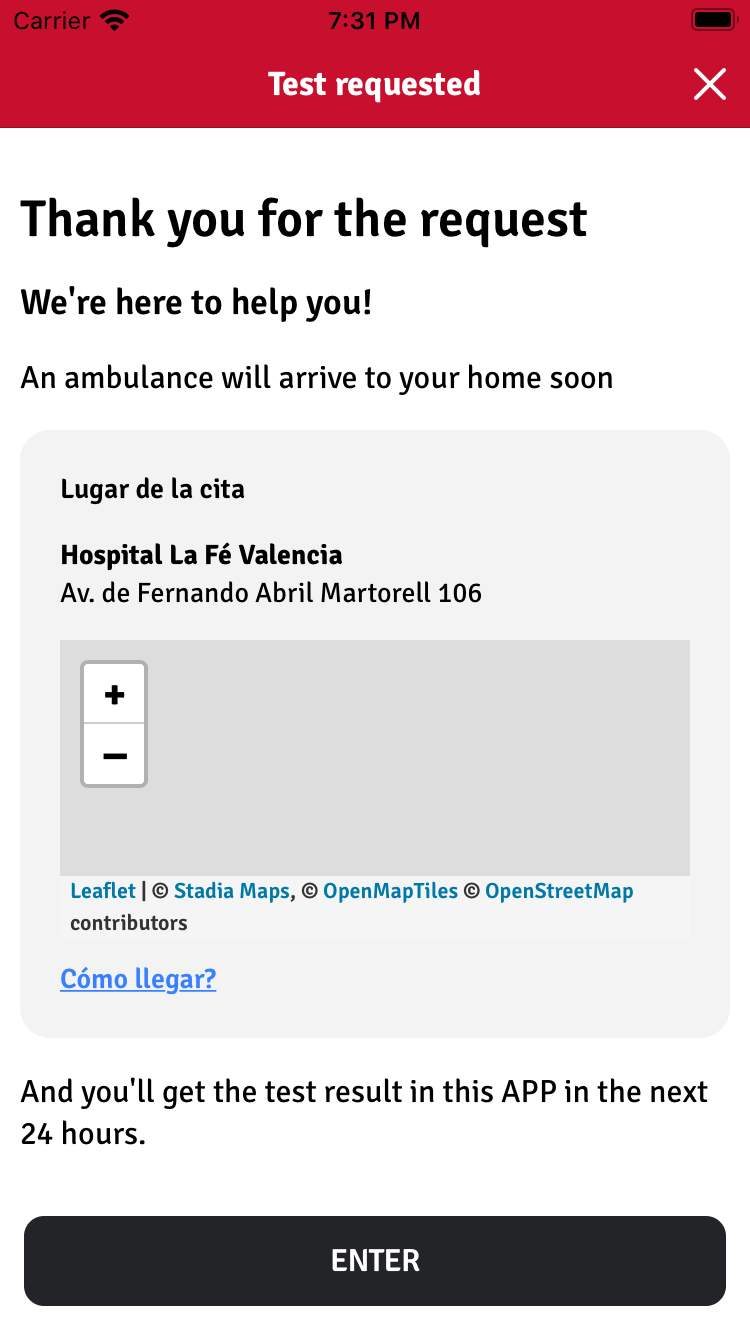
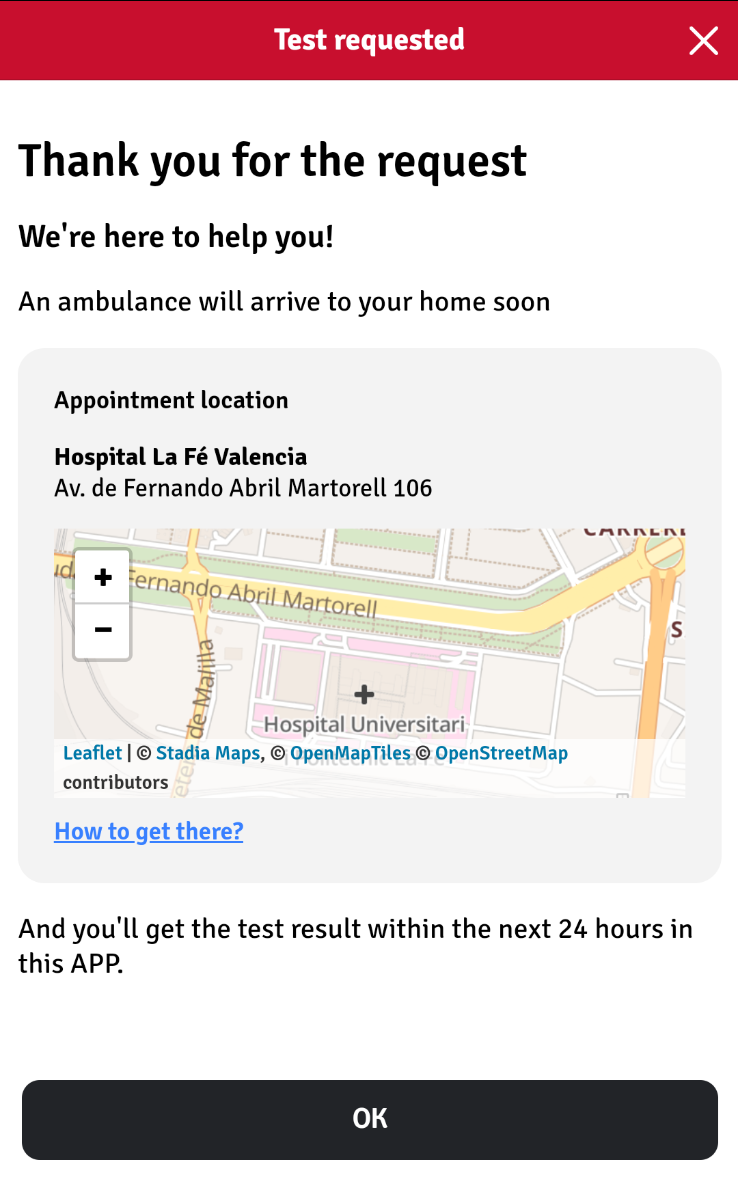
Latest translations

diff --git a/app-citizen/src/app/main/home/home.component.ts b/app-citizen/src/app/main/home/home.component.ts
@@ -44,7 +44,7 @@ export class HomeComponent implements OnDestroy {
                 switch(this.testAppointmentService.testAppointment.type) {
                     case AppointmentType.AT_HOME:
                         this.icon = '/assets/icons/svg/icon-ambulancia.svg';
-                        this.appointmentDescription = "Le enviaremos una ambulancia para hacerle el test del coronavirus en breve";
+                        this.appointmentDescription = "We'll send an ambulance to your house to do the test soon";
                         break;
                     case AppointmentType.AT_HEALTH_CENTER:
                         this.icon = '/assets/icons/svg/icon-cita.svg';
@@ -53,8 +53,8 @@ export class HomeComponent implements OnDestroy {
                         let healthCenterAddress = this.testAppointmentService.testAppointment.healthCenter.address;
                         let healthCenterName = this.testAppointmentService.testAppointment.healthCenter.name;
                         let googleMapsUrl = 'https://www.google.com/maps/dir/?api=1&destination=' + this.testAppointmentService.testAppointment.healthCenter.latitude + ',' + this.testAppointmentService.testAppointment.healthCenter.longitude;
-                        this.appointmentDescription = "Cita para el test del coronavirus <strong>" + appointmentDate + "</strong> en " + healthCenterName + " (" + healthCenterAddress + ")<br />";
-                        this.appointmentDescription += "<a href='" + googleMapsUrl + "' target='_syste,'>Como llegar?</a>";
+                        this.appointmentDescription = "The appointment for the test has been scheduled on <strong>" + appointmentDate + "</strong> at " + healthCenterName + " (" + healthCenterAddress + ")<br />";
+                        this.appointmentDescription += "<a href='" + googleMapsUrl + "' target='_syste,'>How to get there?</a>";
                         break;
 
                 }

diff --git a/app-citizen/src/app/main/home/home.component.html b/app-citizen/src/app/main/home/home.component.html
@@ -14,13 +14,13 @@
                 <div class="auth-code-label" i18n="@@authorizationCodeLabel">Código de autorización</div>
                 <div class="patient-name">{{patientName}}</div>
                 <qr-code></qr-code>
-                <div *ngIf="leaveStatus == 2" class="leave-status">Motivo: <span class="leave-reason">{{leaveReason}}</span></div>
+                <div *ngIf="leaveStatus == 2" class="leave-status"><ng-container i18n="@@leaveReasonLabel">Motivo</ng-container>: <span class="leave-reason">{{leaveReason}}</span></div>
                 <ion-button *ngIf="leaveStatus == null || leaveStatus == 1" (click)="goToRequestLeaveHome()" class="light-button" expand="block">
                     <div slot="start"><img class="button-icon filter-black" src="/assets/icons/svg/icon-salir-casa.svg">&nbsp;&nbsp;&nbsp;</div>
                     <ng-container i18n="@@ImGoingLeaveHomeButton">Voy a salir de casa</ng-container></ion-button>
                 <ion-button *ngIf="leaveStatus == 2" (click)="setAtHome()" class="light-button" expand="block">
                     <div slot="start"><img class="button-icon filter-black" src="/assets/icons/svg/icon-volver-casa.svg">&nbsp;&nbsp;&nbsp;</div>
-                    <ng-container i18n="@@ImGoingLeaveHomeButton">He vuelto a casa</ng-container>
+                    <ng-container i18n="@@IWentBackToHomeMenuLabel">He vuelto a casa</ng-container>
                 </ion-button>
             </ion-col>
             <ion-col></ion-col>

diff --git a/app-citizen/src/app/shared/services/patient.service.ts b/app-citizen/src/app/shared/services/patient.service.ts
@@ -143,8 +143,8 @@ export class PatientService {
                 interval: 60000,
                 fastestInterval: 60000,
                 activitiesInterval: 60000,
-                notificationTitle: 'Tu posición es importante',
-                notificationText: 'Al informar sobre tu posición ayudas mucho a combatir el CORONAVIRUS',
+                notificationTitle: 'Your position is important',
+                notificationText: 'By sending your position you are helping us to fight the CORONAVIRUS',
                 debug: false,
                 stopOnTerminate: false, // enable this to clear background location settings when the app terminates
             });
@@ -196,7 +196,7 @@ export class PatientService {
                 if (status.authorization === BackgroundGeolocationAuthorizationStatus.NOT_AUTHORIZED) {
                     // we need to set delay or otherwise alert may not be shown
                     setTimeout(() => {
-                        var showSettings = confirm('Al informar sobre tu posición ayudas mucho a combatir el CORONAVIRUS. Te gustaría cambiar la configuración de la app?');
+                        var showSettings = confirm('By sending your position you are helping us to fight the CORONAVIRUS. Would you like to review your app config?');
                         if (showSettings) {
                             return BackgroundGeolocation.showAppSettings();
                         }

diff --git a/app-citizen/src/app/main/test-appointment/appointment-health-center/appointment-health-center.component.html b/app-citizen/src/app/main/test-appointment/appointment-health-center/appointment-health-center.component.html
@@ -15,11 +15,11 @@
                 <p i18n="@@testAppointmentResultDescription">Tu cita es el próximo {{appointmentDate}}</p>
                 <div class="highlighted-area">
                     <div style="width: 100%;">
-                        Lugar de la cita
+                        <ng-container i18n="@@appointmentLocation">Lugar de la cita</ng-container>
                         <p><strong>{{healthCenterName}}</strong><br />
                         {{healthCenterAddress}}</p>
                         <div class="map" #map id="map"></div>
-                        <a (click)="showDirectionsToHealthCenter()" href="javascript:void(null);">Cómo llegar?</a>
+                        <a (click)="showDirectionsToHealthCenter()" href="javascript:void(null);" i18n="@@howToGetThereLink">Cómo llegar?</a>
                     </div>
                 </div>
                 <p i18n="@@testAppointmentResultDescription2">Y en 24 horas tendrás los resultados del test que te lo enviaremos directamente a tu móvil mediante esta APP.</p>
@@ -28,5 +28,5 @@
     </ion-grid>
 </ion-content>
 <div class="footer-buttons-container">
-    <ion-button color="dark" (click)="backToHome()" expand="block" i18n="@@enter">OK</ion-button>
+    <ion-button color="dark" (click)="backToHome()" expand="block" i18n="@@okButton">OK</ion-button>
 </div>

diff --git a/app-citizen/src/app/shared/services/leave-request.service.ts b/app-citizen/src/app/shared/services/leave-request.service.ts
@@ -89,7 +89,7 @@ export class LeaveRequestService {
 
     async setAtHome() {
         const alert = await this.alertController.create({
-            message: 'Ya ha llegado a casa?',
+            message: 'Did you already arrive home?',
             buttons: [
                 {
                     text: 'No',
@@ -98,7 +98,7 @@ export class LeaveRequestService {
                     handler: (blah) => {
                     }
                 }, {
-                    text: 'Si',
+                    text: 'Yes',
                     handler: () => {
                         if(this.leaveRequest != null) {
                             this.leaveRequestController.leaveRequestControllerSetAtHome(this.patientService.patient.id).subscribe(result => {

diff --git a/app-citizen/src/app/shared/services/share.service.ts b/app-citizen/src/app/shared/services/share.service.ts
@@ -8,7 +8,7 @@ export class ShareService {
     }
 
     public share() {
-        this.socialSharing.share('Estoy usando Open Coronavirus, una app para luchar contra el coronavirus', null, 'https://open-coronavirus.com')
+        this.socialSharing.share('I\'m using an app to help fighting the CORONAVIRUS. You can download it at http://example-app.com', null, 'https://open-coronavirus.com')
     }
 
 }

diff --git a/app-citizen/src/app/main/patient-info/patient-info.component.ts b/app-citizen/src/app/main/patient-info/patient-info.component.ts
@@ -38,7 +38,7 @@ export class PatientInfoComponent {
 
     async presentToast() {
         const toast = await this.toastController.create({
-            message: 'Tus cambios se han guardado',
+            message: 'Your changes has been saved',
             duration: 2000
         });
         toast.present();

diff --git a/app-citizen/src/app/main/leave-custom-reason-form/leave-custom-reason-form.component.ts b/app-citizen/src/app/main/leave-custom-reason-form/leave-custom-reason-form.component.ts
@@ -33,7 +33,7 @@ export class LeaveCustomReasonFormComponent {
             })
         }
         else {
-            alert('Por favor, escriba porque desea salir.');
+            alert('Please enter the reason you need to leave your home to');
         }
     }
 

diff --git a/README.md b/README.md
@@ -95,7 +95,7 @@ This allows you to run the app in a browser.
 | <img src="https://raw.githubusercontent.com/aparraga/open-coronavirus/master/screenshots/screen1-en.png" alt="Pantalla 1" width="250"/> | <img src="https://raw.githubusercontent.com/aparraga/open-coronavirus/master/screenshots/screen2-en.png" alt="Pantalla 2" width="250"/>| <img src="https://raw.githubusercontent.com/aparraga/open-coronavirus/master/screenshots/screen3-en.png" alt="Pantalla 3" width="250"/>
 | <img src="https://raw.githubusercontent.com/aparraga/open-coronavirus/master/screenshots/screen4-en.png" alt="Pantalla 4" width="250"/> | <img src="https://raw.githubusercontent.com/aparraga/open-coronavirus/master/screenshots/screen5-en.png" alt="Pantalla 5" width="250"/>| <img src="https://raw.githubusercontent.com/aparraga/open-coronavirus/master/screenshots/screen6-en.png" alt="Pantalla 6" width="250"/>
 | <img src="https://raw.githubusercontent.com/aparraga/open-coronavirus/master/screenshots/screen7-en.png" alt="Pantalla 7" width="250"/> | <img src="https://raw.githubusercontent.com/aparraga/open-coronavirus/master/screenshots/screen8-en.png" alt="Pantalla 8" width="250"/>| <img src="https://raw.githubusercontent.com/open-coronavirus/open-coronavirus/master/screenshots/screen9-en.png" alt="Pantalla 9" width="250"/>
-| <img src="https://raw.githubusercontent.com/open-coronavirus/open-coronavirus/master/screenshots/screen10-en.png" alt="Pantalla 10" width="250"/> | <img src="https://raw.githubusercontent.com/aparraga/open-coronavirus/master/screenshots/screen11-en.png" alt="Pantalla 11" width="250"/>
+| <img src="https://raw.githubusercontent.com/open-coronavirus/open-coronavirus/master/screenshots/screen10-en.png" alt="Pantalla 10" width="250"/> | <img src="https://raw.githubusercontent.com/aparraga/open-coronavirus/master/screenshots/screen11-en.png" alt="Pantalla 11" width="250"/>| <img src="https://raw.githubusercontent.com/open-coronavirus/open-coronavirus/master/screenshots/screen12-en.png" alt="Pantalla 12" width="250"/>
 ## License
 [MIT License] (license.md)
 
